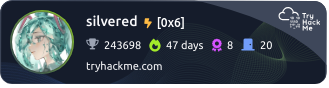
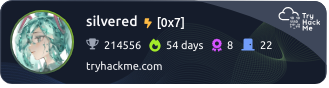
Update TryHackMe badge [skip ci]

diff --git a/README.md b/README.md
@@ -13,7 +13,7 @@ made by [Oliver Pearce](https://oliverjpearce.com/)
 
 - - - 
 
-<img src="https://raw.githubusercontent.com/oliverpearce/medjed/main/silvered.png" alt="THM badge" />
+<img src="./silvered.png" alt="THM badge" />
 
 - - -
 
